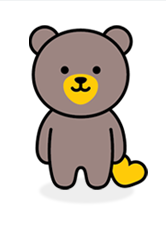
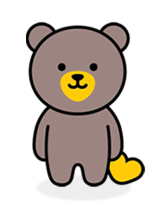
check file

Changed region(s): [[0.1562, 0.0878, 0.9062, 0.9366]]

diff --git a/account_book/src/components/body/addToggle.vue b/account_book/src/components/body/addToggle.vue
@@ -3,8 +3,8 @@
     <button @click="toggleForm" class="toggle-button">+</button>
     <div :class="{'transaction-form': true, 'show': formVisible}">
       <div class="header">
-        <h2>가계부 작성</h2>
-        <img :src="`/image/bearKB.jpg`" alt="KB 귀요미 곰" class="header-image">
+        <h2>&emsp;&nbsp;가계부 작성</h2>
+        <img :src="`/image/bearKB.jpg`" alt="KB귀요미 곰" class="header-image">
       </div>
       <form @submit.prevent="submitForm">
         <div class="wrap">
@@ -143,10 +143,9 @@ export default {
 }
 
 .header-image {
-  width: 50px;
-  height: 50px;
+  width: 60px;
+  height: 80px;
   object-fit: cover;
-  border-radius: 50%;
 }
 
 .wrap {
@@ -216,8 +215,3 @@ input[type="number"]:focus {
   background-color: #e6b800;
 }
 </style>
-
-
-
-
-

diff --git a/account_book/src/components/body/recentList.vue b/account_book/src/components/body/recentList.vue
@@ -48,6 +48,9 @@ export default {
                 plusRes.data.forEach(item => {
                     item.type = '수입';
                     item.jsonType = 'Plus';
+                    if(this.user_id == item.user_id){
+                        this.contents.push(item);
+                    }
                 });
                 return axios.get("http://localhost:3001/Minus/",{params})
             })

diff --git a/account_book/src/components/body/chart/minusChart.vue b/account_book/src/components/body/chart/minusChart.vue
@@ -67,7 +67,7 @@ export default {
             const options = {
                 titleTextStyle: { fontSize: 20 },
                 curveType: "function",
-                legend: { position: "bottom" },
+                legend: { position: "top" },
                 chartArea: { width: "80%", height: "80%" },
                 colors: ["red"],
             };

diff --git a/account_book/src/components/body/list.vue b/account_book/src/components/body/list.vue
@@ -1,6 +1,6 @@
 <template>
     <div class="wrap">
-        <h1>list</h1>
+        <h1>거래내역</h1>
         <div class="filter">
             <!-- 날짜선택 -->
             <div>
@@ -146,6 +146,9 @@ export default {
 };
 </script>
 <style scoped>
+h1 {
+    margin-bottom: 50px;
+}
 .wrap {
     width: 1000px;
     margin: 0 auto;

diff --git a/account_book/src/components/aside.vue b/account_book/src/components/aside.vue
@@ -10,9 +10,6 @@
             <li @click="changeTab('Notice')" :class="{ checked: tab === 'Notice' }">
                 <p>공지사항</p>
             </li>
-            <li @click="changeTab('Client')" :class="{ checked: tab === 'Client' }">
-                <p>고객문의</p>
-            </li>
         </ul>
     </div>
 </template>

diff --git a/account_book/src/components/body/chart/sumChart.vue b/account_book/src/components/body/chart/sumChart.vue
@@ -103,7 +103,7 @@ export default {
         const options = {
             titleTextStyle: { fontSize: 20 },
             curveType: "function",
-            legend: { position: "bottom" },
+            legend: { position: "top" },
             chartArea: { width: "80%", height: "70%" },
             colors: ["green"],
         };

diff --git a/account_book/src/components/body/chart/plusChart.vue b/account_book/src/components/body/chart/plusChart.vue
@@ -88,7 +88,7 @@ methods: {
     const options = {
         titleTextStyle: { fontSize: 20 },
         curveType: "function",
-        legend: { position: "bottom" },
+        legend: { position: "top" },
         chartArea: { width: "80%", height: "70%" },
     };
 
